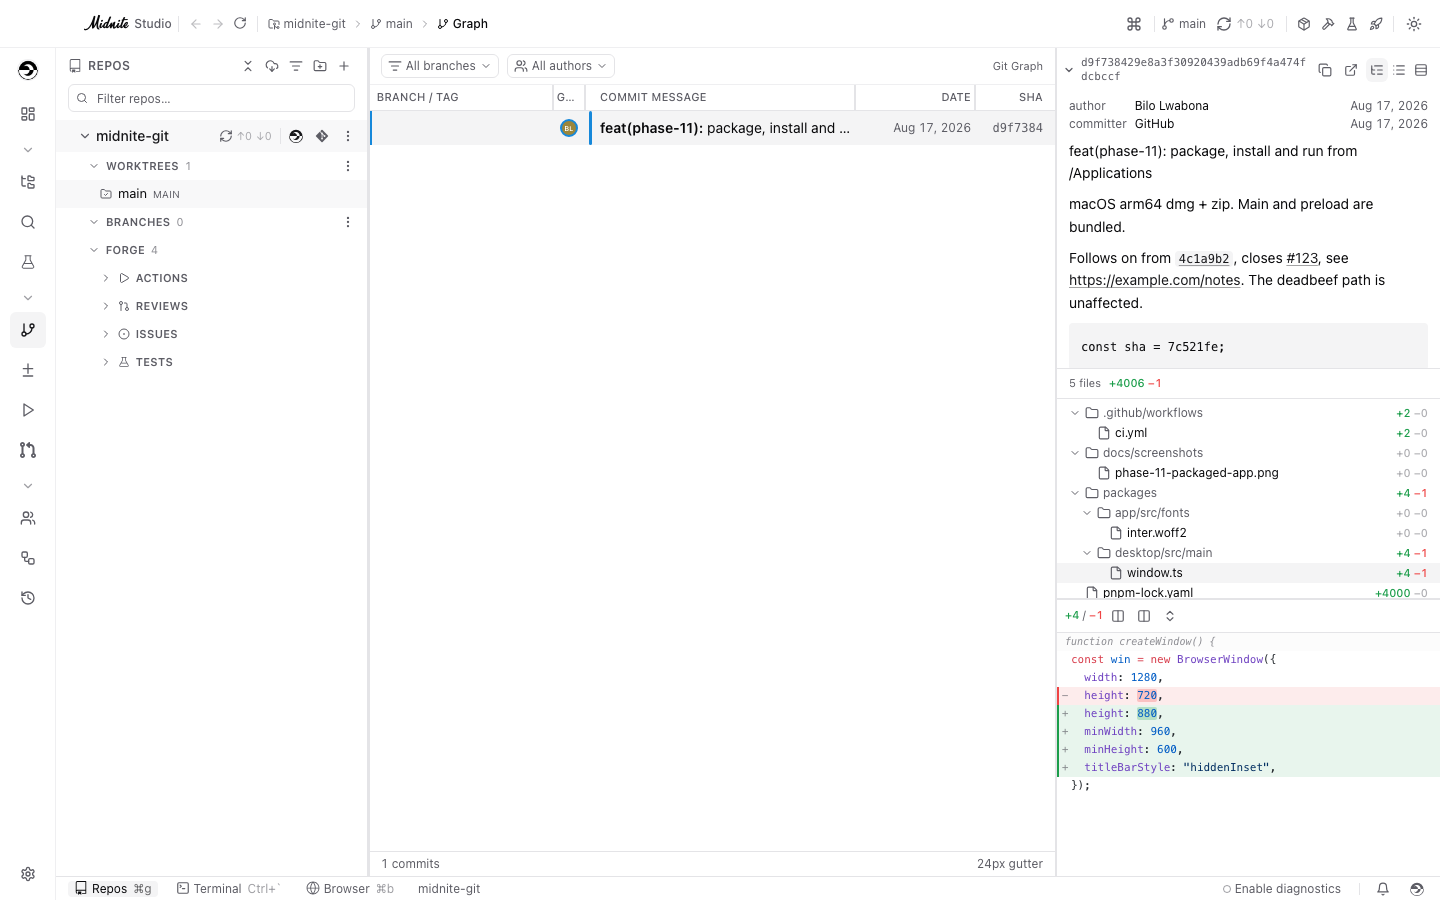
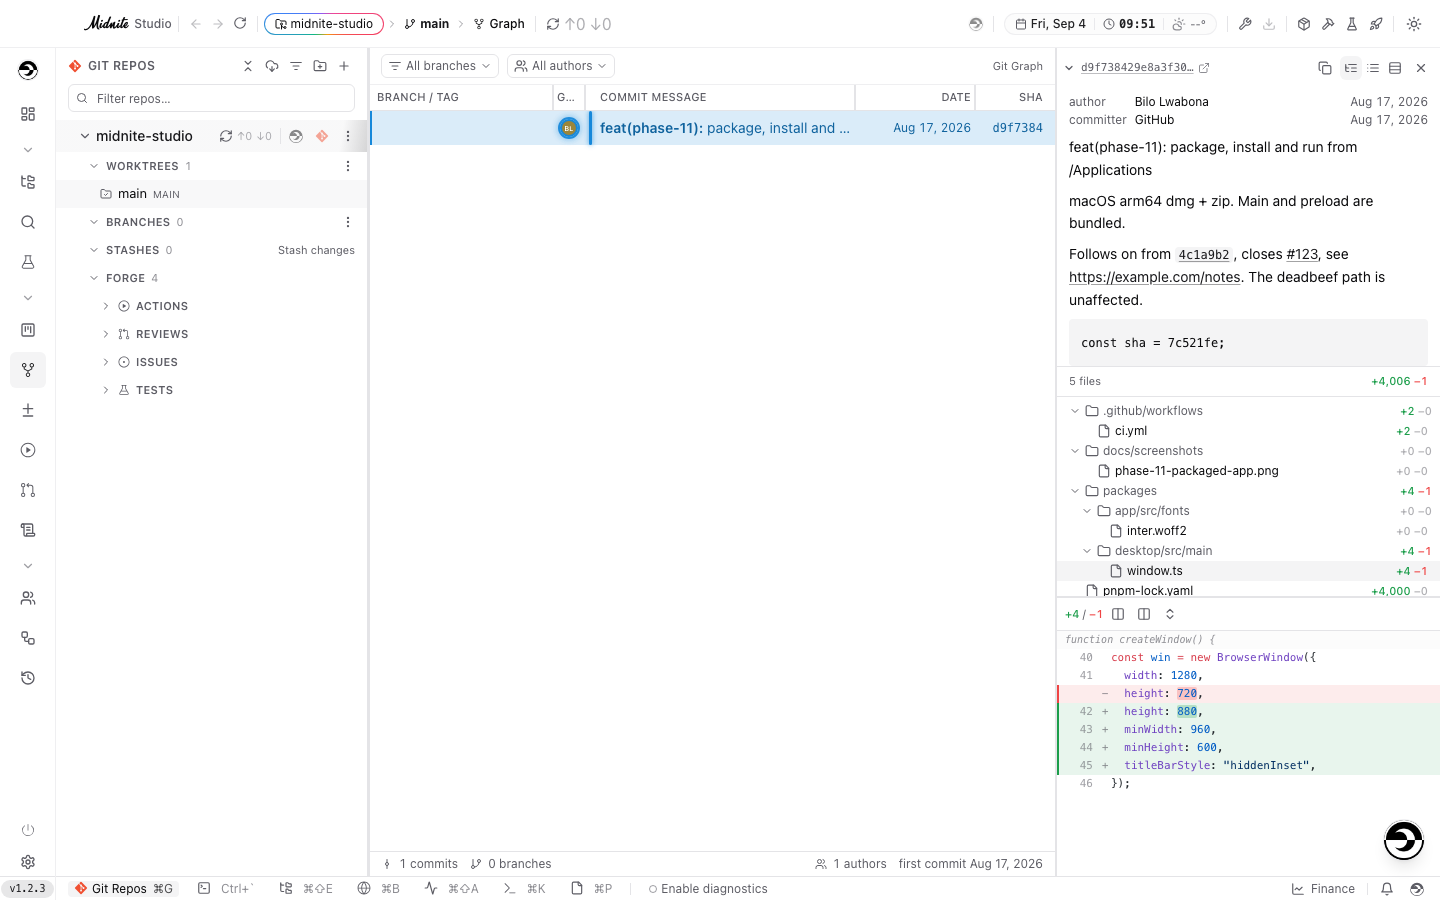
feat(app): modernize commit detail header and integrate panel close button (#124)
- Move close button directly into commit detail, stash, and conflict studio headers
- Remove top-level separate close button bar in graph view aside
- Truncate commit SHA to 16 characters with ellipses and integrate hyperlink to open in tab
- Add hyperlink icon to SHA link and remove redundant Open commit in tab button
- Update e2e tests and verification screenshots

diff --git a/packages/app/src/features/commit/commit-detail.tsx b/packages/app/src/features/commit/commit-detail.tsx
@@ -7,6 +7,7 @@ import {
   LuList,
   LuListTree,
   LuRows3,
+  LuX,
 } from 'react-icons/lu';
 import { Suspense, lazy, useCallback, useEffect, useId, useMemo, useRef, useState } from 'react';
 
@@ -58,9 +59,18 @@ const CommitMessage = lazy(() =>
  * question being asked of a file list — "which of these do I want to read" — is
  * one you answer by looking at the list and the diff together.
  */
-export function CommitDetail({ repoId, sha }: { repoId: string; sha: string }) {
+export function CommitDetail({
+  repoId,
+  sha,
+  onClose,
+}: {
+  repoId: string;
+  sha: string;
+  onClose?: () => void;
+}) {
   const { data, isLoading } = useCommitDetail(repoId, sha);
   const { data: remotes } = useRemotes(repoId);
+  const openTab = useWorkbenchStore((s) => s.openTab);
   const selectCommit = useUiStore((s) => s.selectCommit);
   const fileView = useUiStore((s) => s.commitFileView);
   const setFileView = useUiStore((s) => s.setCommitFileView);
@@ -210,7 +220,12 @@ export function CommitDetail({ repoId, sha }: { repoId: string; sha: string }) {
   if (!data) {
     return (
       <div className="p-3">
-        <p className="text-sm">Commit not found</p>
+        <div className="flex items-center justify-between">
+          <p className="text-sm">Commit not found</p>
+          {onClose ? (
+            <IconButton icon={LuX} label="Close" size="sm" onClick={onClose} />
+          ) : null}
+        </div>
         <p className="mt-1 text-xs text-muted-foreground">
           <span className="font-mono">{shortSha(sha)}</span> is not in this repository. It may not
           have been fetched, or a rebase may have replaced it.
@@ -248,30 +263,29 @@ export function CommitDetail({ repoId, sha }: { repoId: string; sha: string }) {
             <LuChevronRight className="h-3 w-3" strokeWidth={2.5} />
           )}
         </button>
-        {/*
-          11px rather than the panel's 12: forty monospace characters plus
-          the buttons beside them fit the default 384px pane at this size and
-          wrap to an orphaned character at the next one up. Still `break-all`,
-          because the pane is draggable down to 280.
-
-          The row's padding is tighter than the `px-3` used everywhere below,
-          and that is what pays for the chevron: at `px-3` the 40th character
-          wrapped to a line of its own. Sitting the chevron in the reclaimed
-          gutter is also the usual shape for an accordion header — the control
-          is left of the content it opens, not inset with it.
-        */}
-        <p
-          className="min-w-0 flex-1 break-all font-mono text-[11px] leading-tight text-muted-foreground"
-          data-selectable
+        <button
+          type="button"
+          onClick={() =>
+            openTab({
+              kind: 'commit',
+              repoId,
+              sha: data.sha,
+              label: `${data.sha.slice(0, 7)}: ${data.subject}`,
+            })
+          }
+          title={`Open commit in tab (${data.sha})`}
+          aria-label={`Open commit in tab (${data.sha})`}
+          className="group inline-flex min-w-0 flex-1 items-center gap-1 overflow-hidden font-mono text-[11px] leading-tight text-muted-foreground transition-colors hover:text-foreground"
         >
-          {data.sha}
-        </p>
+          <span className="truncate underline decoration-muted-foreground/40 underline-offset-2 group-hover:decoration-foreground">
+            {data.sha.slice(0, 16)}…
+          </span>
+          <LuExternalLink
+            aria-hidden
+            className="h-3 w-3 shrink-0 text-muted-foreground/70 transition-colors group-hover:text-foreground"
+          />
+        </button>
         <CopySha sha={data.sha} />
-        <OpenInTabButton
-          repoId={repoId}
-          sha={data.sha}
-          label={`${data.sha.slice(0, 7)}: ${data.subject}`}
-        />
         <div className="flex shrink-0 items-center">
           <ViewToggle
             view={fileView}
@@ -280,6 +294,9 @@ export function CommitDetail({ repoId, sha }: { repoId: string; sha: string }) {
             onToggleAll={toggleShowAll}
           />
         </div>
+        {onClose ? (
+          <IconButton icon={LuX} label="Close" size="sm" onClick={onClose} />
+        ) : null}
       </div>
 
       {/*
@@ -583,18 +600,5 @@ function Parents({ parents, onSelect }: { parents: string[]; onSelect: (sha: str
         </span>
       ))}
     </div>
-  );
-}
-
-function OpenInTabButton({ repoId, sha, label }: { repoId: string; sha: string; label: string }) {
-  const openTab = useWorkbenchStore((s) => s.openTab);
-
-  return (
-    <IconButton
-      icon={LuExternalLink}
-      label="Open commit in tab"
-      size="sm"
-      onClick={() => openTab({ kind: 'commit', repoId, sha, label })}
-    />
   );
 }

diff --git a/packages/app/e2e/commit-inspector.spec.ts b/packages/app/e2e/commit-inspector.spec.ts
@@ -119,10 +119,10 @@ test('the trailer block renders as metadata, with its email linkified', async ({
 
 // --- Theme B: the header --------------------------------------------------
 
-test('the header shows the full sha and copies it through the bridge', async ({ page }) => {
+test('the header shows the truncated sha hyperlink and copies full sha through the bridge', async ({ page }) => {
   await openCommit(page);
 
-  await expect(page.getByText(COMMIT_SHA, { exact: true })).toBeVisible();
+  await expect(page.getByRole('button', { name: `Open commit in tab (${COMMIT_SHA})` })).toContainText(`${COMMIT_SHA.slice(0, 16)}…`);
   await page.getByRole('button', { name: 'Copy the full sha' }).click();
 
   // The full 40 characters, not the abbreviation the header could have shown.
@@ -152,7 +152,7 @@ test('the metadata collapses to its header, and the choice survives a reload', a
   // toggle stay, because they are the accordion's own header row.
   await expect(identities(page)).toHaveCount(0);
   await expect(message(page)).toHaveCount(0);
-  await expect(page.getByText(COMMIT_SHA, { exact: true })).toBeVisible();
+  await expect(page.getByRole('button', { name: `Open commit in tab (${COMMIT_SHA})` })).toContainText(`${COMMIT_SHA.slice(0, 16)}…`);
   await expect(page.getByRole('button', { name: 'Copy the full sha' })).toBeVisible();
   await expect(files(page)).toBeVisible();
 
@@ -184,7 +184,7 @@ test('a parent sha navigates the panel, and a root commit says it has none', asy
 
   await page.getByRole('button', { name: `Show commit ${PARENT_SHA}` }).click();
 
-  await expect(page.getByText(PARENT_SHA, { exact: true })).toBeVisible();
+  await expect(page.getByRole('button', { name: `Open commit in tab (${PARENT_SHA})` })).toContainText(`${PARENT_SHA.slice(0, 16)}…`);
   await expect(page.getByText('Root commit — no parents.')).toBeVisible();
 });
 
@@ -195,7 +195,7 @@ test('a linkified sha selects a commit that is not in the loaded graph', async (
 
   await message(page).getByRole('button', { name: LINKED_ABBREV }).click();
 
-  await expect(page.getByText(LINKED_SHA, { exact: true })).toBeVisible();
+  await expect(page.getByRole('button', { name: `Open commit in tab (${LINKED_SHA})` })).toContainText(`${LINKED_SHA.slice(0, 16)}…`);
   await expect(page.getByText('fix(graph): the linkified target').first()).toBeVisible();
 });
 

diff --git a/packages/app/src/features/graph/graph-view.tsx b/packages/app/src/features/graph/graph-view.tsx
@@ -1,11 +1,10 @@
 import { useCallback, useEffect, useMemo, useRef, useState } from 'react';
 
 import { useVirtualizer } from '@tanstack/react-virtual';
-import { LuGitBranch, LuGitCommitVertical, LuUsers, LuX } from 'react-icons/lu';
+import { LuGitBranch, LuGitCommitVertical, LuUsers } from 'react-icons/lu';
 
 import { useDialogs } from '../../components/dialog-host';
 import { EmptyState } from '../../components/empty-state';
-import { IconButton } from '../../components/icon-button';
 import { ResizeHandle } from '../../components/resizable/resize-handle';
 import { useResizable } from '../../components/resizable/use-resizable';
 import { useRefs, useStashes } from '../../services/queries';
@@ -491,21 +490,18 @@ export function GraphView() {
             }`}
             style={{ width: detail.current }}
           >
-            <div className="flex shrink-0 items-center justify-end border-b border-border px-1 py-1">
-              <IconButton
-                icon={LuX}
-                label="Close"
-                size="sm"
-                onClick={() => selectCommit(null)}
-              />
-            </div>
             <div className="min-h-0 flex-1">
               {graphSelection.kind === 'commit' ? (
-                <CommitDetail repoId={repoId} sha={graphSelection.sha} />
+                <CommitDetail
+                  repoId={repoId}
+                  sha={graphSelection.sha}
+                  onClose={() => selectCommit(null)}
+                />
               ) : graphSelection.kind === 'stash' ? (
                 <StashInspector
                   repoId={repoId}
                   selector={graphSelection.selector}
+                  onClose={() => selectStash(null)}
                   onError={setOpError}
                 />
               ) : (

diff --git a/packages/app/src/features/stash/stash-inspector.tsx b/packages/app/src/features/stash/stash-inspector.tsx
@@ -5,6 +5,7 @@ import {
   LuGitBranchPlus,
   LuPackage,
   LuTrash2,
+  LuX,
 } from 'react-icons/lu';
 
 import { buildChangeTree } from '../../components/build-change-tree';
@@ -42,10 +43,12 @@ import type { GitOpResult, StashDiffFile, StashPart } from '@midnite/studio-shar
 export function StashInspector({
   repoId,
   selector,
+  onClose,
   onError,
 }: {
   repoId: string;
   selector: string;
+  onClose?: () => void;
   /** Surfaces an Apply/Pop/Branch/Drop failure — the graph's own error banner. */
   onError?: (message: string) => void;
 }) {
@@ -119,7 +122,12 @@ export function StashInspector({
   if (!detail) {
     return (
       <div className="p-3">
-        <p className="text-sm">Stash not found</p>
+        <div className="flex items-center justify-between">
+          <p className="text-sm">Stash not found</p>
+          {onClose ? (
+            <IconButton icon={LuX} label="Close" size="sm" onClick={onClose} />
+          ) : null}
+        </div>
         <p className="mt-1 text-xs text-muted-foreground">
           <span className="font-mono">{selector}</span> is no longer in this repository.
         </p>
@@ -184,6 +192,9 @@ export function StashInspector({
             })
           }
         />
+        {onClose ? (
+          <IconButton icon={LuX} label="Close" size="sm" onClick={onClose} />
+        ) : null}
       </header>
 
       {empty ? (

diff --git a/packages/app/src/features/conflicts/conflict-resolution-studio.tsx b/packages/app/src/features/conflicts/conflict-resolution-studio.tsx
@@ -1,7 +1,9 @@
 import { useMemo, useState, type ReactNode } from 'react';
+import { LuX } from 'react-icons/lu';
 
 import type { ConflictHunkSide, ConflictRegion, ConflictSide } from '@midnite/studio-shared';
 
+import { IconButton } from '../../components/icon-button';
 import { useConflictApplyHunk, useConflictResolveWholeFile } from '../../services/use-status';
 import { flattenConflictHunks } from './flatten-conflict-hunks';
 import { useConflictRegions } from './use-conflict-regions';
@@ -111,6 +113,7 @@ export function ConflictResolutionStudio({
           >
             Accept all theirs
           </button>
+          <IconButton icon={LuX} label="Close" size="sm" onClick={onClose} />
         </span>
       </div>
 
